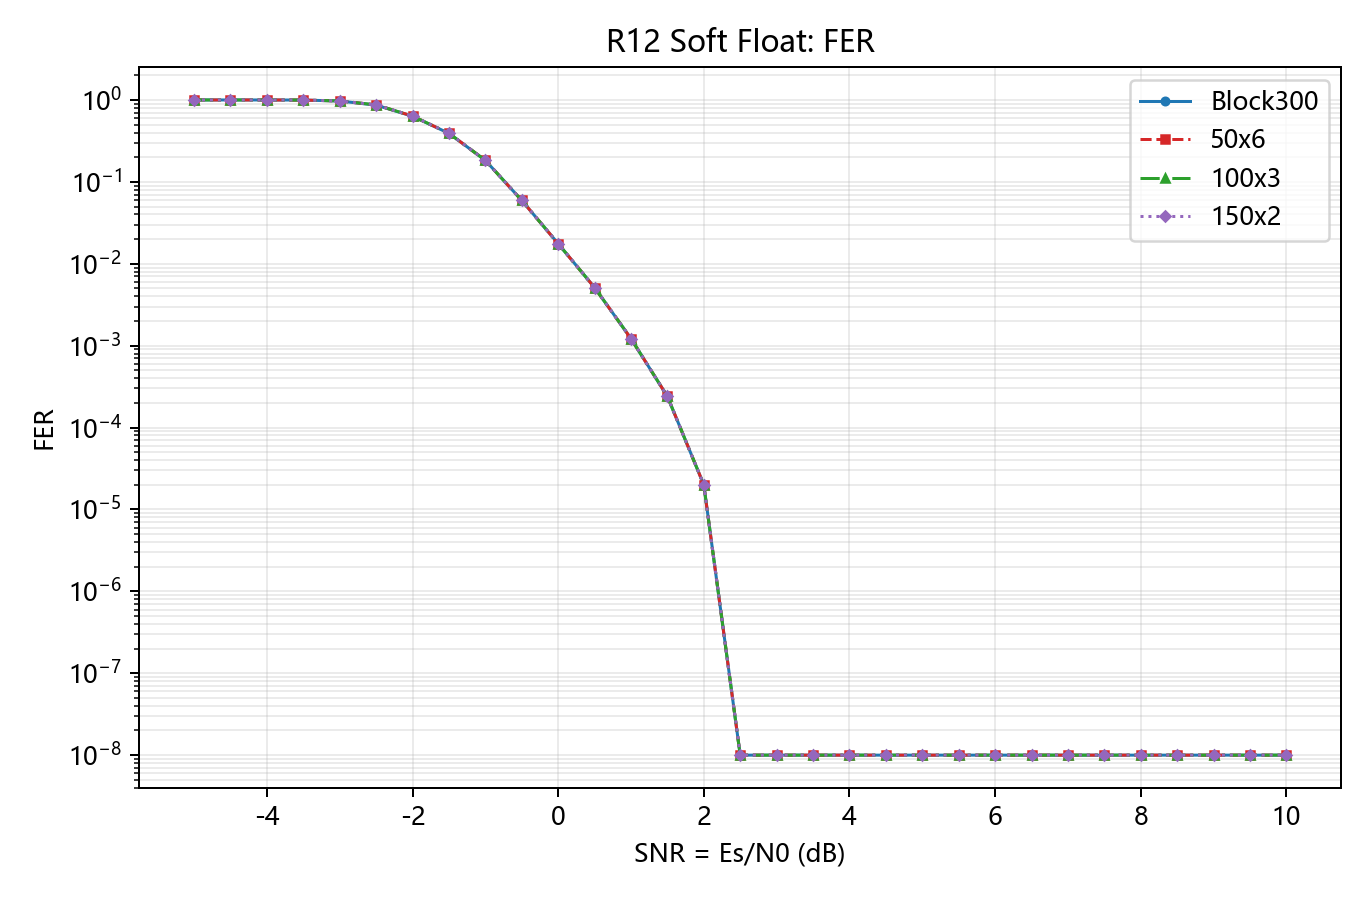
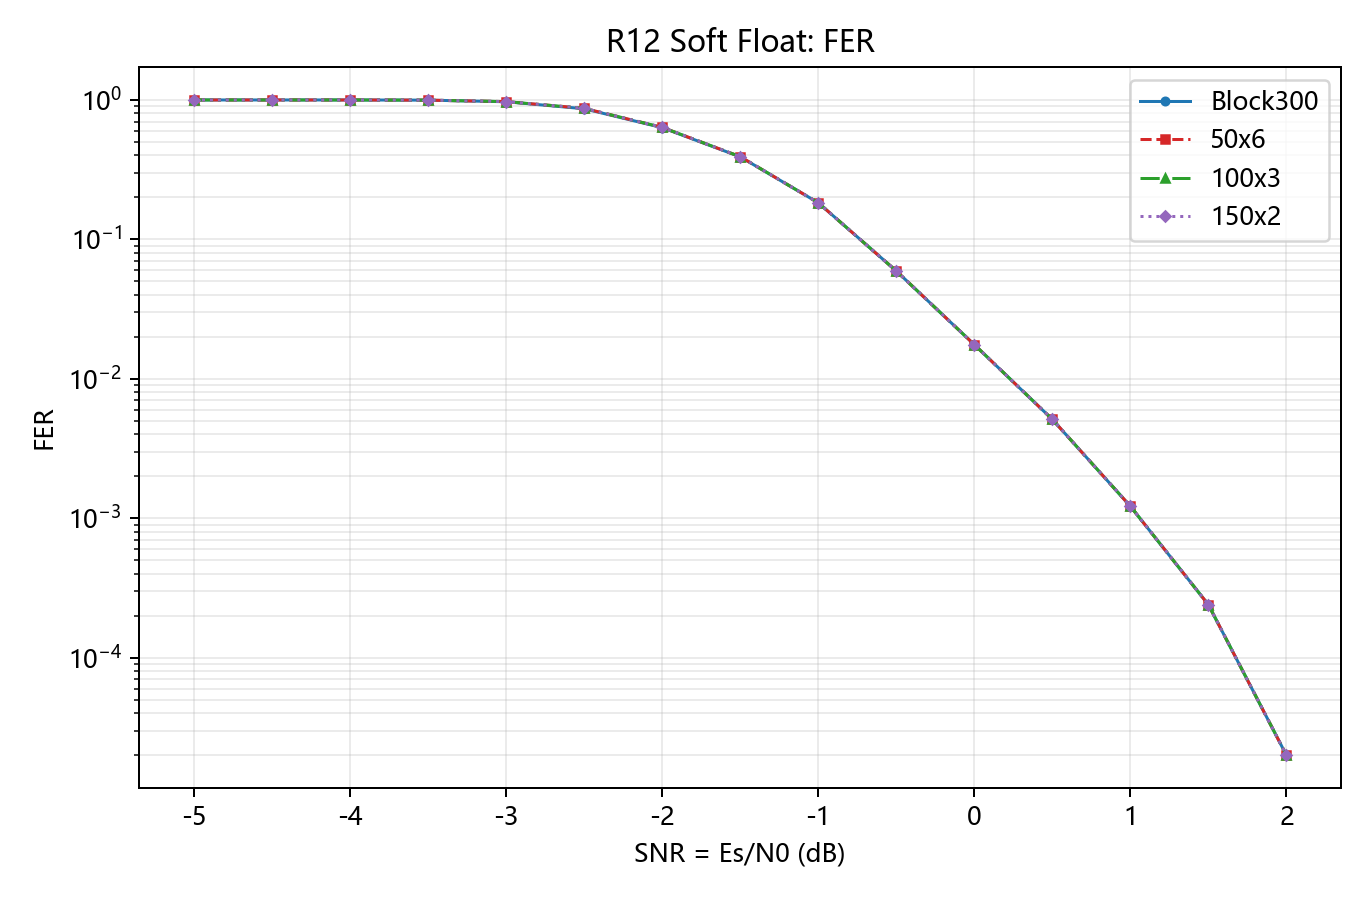
CC/阶段S3：去除高SNR伪误码平线

diff --git a/Task/CC/simulation/stages/S3/stage15_cc_s3_integration/scripts/process_final_delivery.py b/Task/CC/simulation/stages/S3/stage15_cc_s3_integration/scripts/process_final_delivery.py
@@ -462,9 +462,12 @@ def plot_rate_curves(
     plt.figure(figsize=(7.6, 5.0))
     for rate in RATES:
         group = data[data.rate == rate].sort_values("snrDb")
+        observed = group[group[metric] > 0.0]
+        if observed.empty:
+            continue
         plt.semilogy(
-            group.snrDb,
-            group[metric].clip(lower=1e-8),
+            observed.snrDb,
+            observed[metric],
             marker="o",
             markersize=3,
             linewidth=1.2,
@@ -504,9 +507,12 @@ def plot_block(matrix: pd.DataFrame, manifest: list[dict]) -> None:
             group = block[
                 (block.rate == rate) & (block.decisionMode == decision)
             ].sort_values("snrDb")
+            observed = group[group.FER > 0.0]
+            if observed.empty:
+                continue
             axis.semilogy(
-                group.snrDb,
-                group.FER.clip(lower=1e-8),
+                observed.snrDb,
+                observed.FER,
                 marker="o",
                 markersize=3,
                 label=decision,
@@ -539,9 +545,12 @@ def plot_slot_curves(
                     (data.rate == rate)
                     & (data.organization == organization)
                 ].sort_values("snrDb")
+                observed = group[group.FER > 0.0]
+                if observed.empty:
+                    continue
                 axis.semilogy(
-                    group.snrDb,
-                    group.FER.clip(lower=1e-8),
+                    observed.snrDb,
+                    observed.FER,
                     marker="o",
                     markersize=2.5,
                     linewidth=1,
@@ -1163,7 +1172,8 @@ D126；实际 W/S/D 控制变量与最初计划略有差异，但已有数据足
     analysis = f"""# Stage15 结果分析
 
 本轮最终矩阵共 {len(matrix)} 行，其中 Stage14 Hard/Soft 四组织全量纳入。
-12 张核心图均有对应 `figure_data/*.csv`，没有空图。
+12 张核心图均有对应 `figure_data/*.csv`，没有空图。BER/FER 的零错误正式点保留
+在 figure-data 与源 CSV 中，但在对数纵轴上直接省略，避免制造高 SNR error floor。
 
 - Block Soft BER/FER：三码率分图/分线，避免混入 W/S/D 全候选。
 - Block Hard/Soft：每码率仅两条曲线，直接给出判决增益。

diff --git a/Task/CC/simulation/stages/S3/stage14_block_continuous_comparison/scripts/process_final_delivery.py b/Task/CC/simulation/stages/S3/stage14_block_continuous_comparison/scripts/process_final_delivery.py
@@ -234,10 +234,12 @@ def plot_error_curves(
                         part.organization == organization
                     ].sort_values("snrDb")
                     color, line, marker = STYLES[organization]
-                    values = group[metric].clip(lower=1e-8)
+                    observed = group[group[metric] > 0.0]
+                    if observed.empty:
+                        continue
                     plt.semilogy(
-                        group.snrDb,
-                        values,
+                        observed.snrDb,
+                        observed[metric],
                         color=color,
                         linestyle=line,
                         marker=marker,
@@ -432,9 +434,12 @@ def plot_boundary(offsets: pd.DataFrame, manifest: list[dict]) -> None:
         plt.figure(figsize=(7.6, 4.8))
         for organization in ORGANIZATIONS[1:]:
             group = grouped[grouped.organization == organization]
+            observed = group[group.BER > 0.0]
+            if observed.empty:
+                continue
             plt.semilogy(
-                group.relativeOffset,
-                group.BER.clip(lower=1e-8),
+                observed.relativeOffset,
+                observed.BER,
                 marker="o",
                 label=LABELS[organization],
             )
@@ -483,7 +488,8 @@ def write_documents(data: pd.DataFrame, manifest: list[dict]) -> None:
 Es/N0 达到相同 FER。当前 50x6、100x3、150x2 的 BER/FER 在每个 SNR 点完全
 重合，因为三者最终使用相同接收序列和滑窗边界；它们的首次输出和 P95 时延因
 slot 到达时刻不同而不重合。限制：曲线只代表 -5 至 10 dB、0.5 dB 步长的离散
-BPSK-AWGN 仿真。
+BPSK-AWGN 仿真；BER/FER 为零的正式点保留在 CSV，但不会在对数纵轴上以人造
+下限绘制。
 
 ## 时延
 

diff --git a/Task/CC/simulation/stages/S3/stage14_block_continuous_comparison/scripts/check_stage14.py b/Task/CC/simulation/stages/S3/stage14_block_continuous_comparison/scripts/check_stage14.py
@@ -21,6 +21,11 @@ ORGANIZATIONS = {
 
 
 def main() -> None:
+    processor = (STAGE / "scripts" / "process_final_delivery.py").read_text(
+        encoding="utf-8"
+    )
+    if "clip(lower=1e-8)" in processor or "observed = group[group[metric] > 0.0]" not in processor:
+        raise RuntimeError("log-scale error-floor clipping is forbidden")
     path = RESULTS / "stage14_online_slot_formal_results_all_decisions.csv"
     data = pd.read_csv(path)
     if len(data) != 744:

diff --git a/Task/CC/simulation/stages/S3/stage15_cc_s3_integration/scripts/check_stage15_revision.py b/Task/CC/simulation/stages/S3/stage15_cc_s3_integration/scripts/check_stage15_revision.py
@@ -47,6 +47,11 @@ def check_markdown_images(path: Path) -> None:
 
 
 def main() -> None:
+    processor = (STAGE / "scripts" / "process_final_delivery.py").read_text(
+        encoding="utf-8"
+    )
+    if "clip(lower=1e-8)" in processor or "observed = group[group[metric] > 0.0]" not in processor:
+        raise RuntimeError("log-scale error-floor clipping is forbidden")
     stage14_path = (
         S3
         / "stage14_block_continuous_comparison"

diff --git a/Task/CC/simulation/stages/S3/stage15_cc_s3_integration/results/results_analysis.md b/Task/CC/simulation/stages/S3/stage15_cc_s3_integration/results/results_analysis.md
@@ -1,7 +1,8 @@
 # Stage15 结果分析
 
 本轮最终矩阵共 3447 行，其中 Stage14 Hard/Soft 四组织全量纳入。
-12 张核心图均有对应 `figure_data/*.csv`，没有空图。
+12 张核心图均有对应 `figure_data/*.csv`，没有空图。BER/FER 的零错误正式点保留
+在 figure-data 与源 CSV 中，但在对数纵轴上直接省略，避免制造高 SNR error floor。
 
 - Block Soft BER/FER：三码率分图/分线，避免混入 W/S/D 全候选。
 - Block Hard/Soft：每码率仅两条曲线，直接给出判决增益。

diff --git a/Task/CC/simulation/stages/S3/stage14_block_continuous_comparison/results/results_analysis.md b/Task/CC/simulation/stages/S3/stage14_block_continuous_comparison/results/results_analysis.md
@@ -14,7 +14,8 @@
 Es/N0 达到相同 FER。当前 50x6、100x3、150x2 的 BER/FER 在每个 SNR 点完全
 重合，因为三者最终使用相同接收序列和滑窗边界；它们的首次输出和 P95 时延因
 slot 到达时刻不同而不重合。限制：曲线只代表 -5 至 10 dB、0.5 dB 步长的离散
-BPSK-AWGN 仿真。
+BPSK-AWGN 仿真；BER/FER 为零的正式点保留在 CSV，但不会在对数纵轴上以人造
+下限绘制。
 
 ## 时延
 
